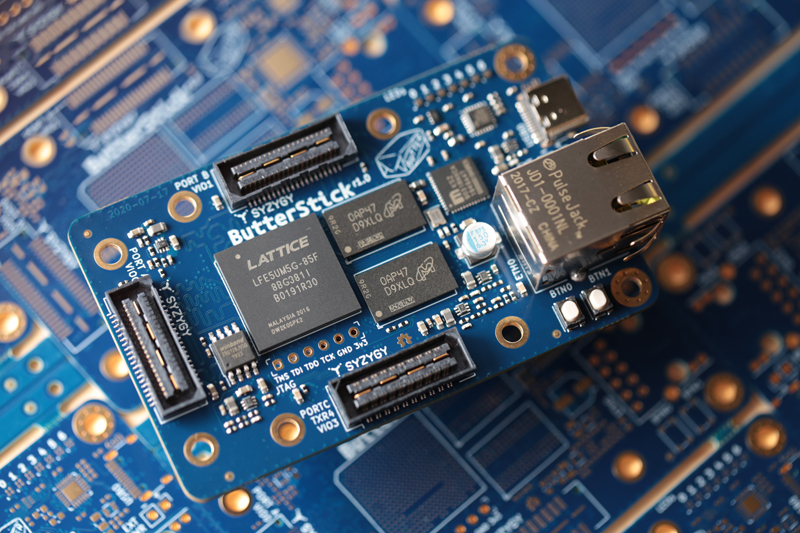
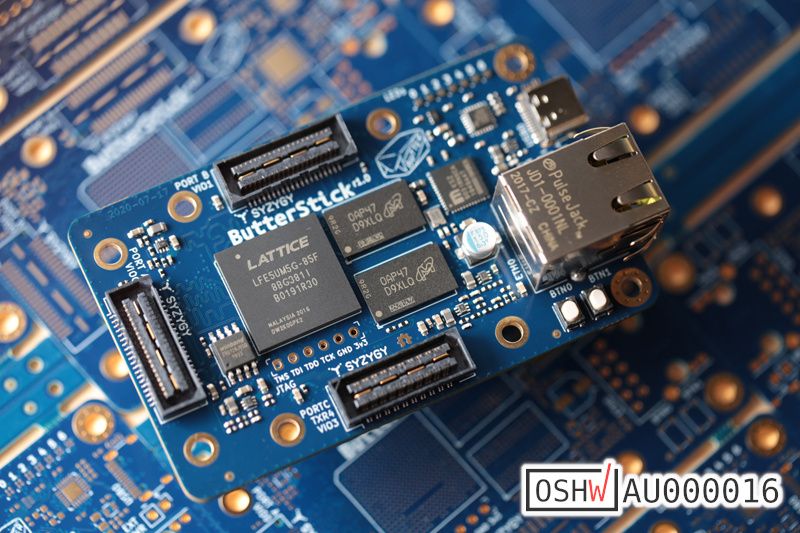
docs: Add OSHWA ID

Changed region(s): [[0.625, 0.8405, 1.0, 0.9906]]

diff --git a/hardware/ButterStick_r1.0/README.md b/hardware/ButterStick_r1.0/README.md
@@ -32,5 +32,7 @@ ECP5 based development board with on-board Gigabit Ethernet, High speed USB, and
 
 ## Licence
 
- * Hardware in this repository is licenced under CERN OHL v1.2
+ * Hardware in this repository is licensed under CERN OHL v1.2
 
+## Open Source Hardware
+This board is an OSHWA approved design: [AU000016](https://certification.oshwa.org/au000016.html)

diff --git a/README.md b/README.md
@@ -66,4 +66,7 @@ The 25F also has the following limitations on the ButterStick:
 
 ## Licence
 
- * Hardware in this repository is licenced under CERN OHL v1.2
+ * Hardware in this repository is licensed under CERN OHL v1.2
+
+ ## Open Source Hardware
+This board is an OSHWA approved design: [AU000016](https://certification.oshwa.org/au000016.html)
